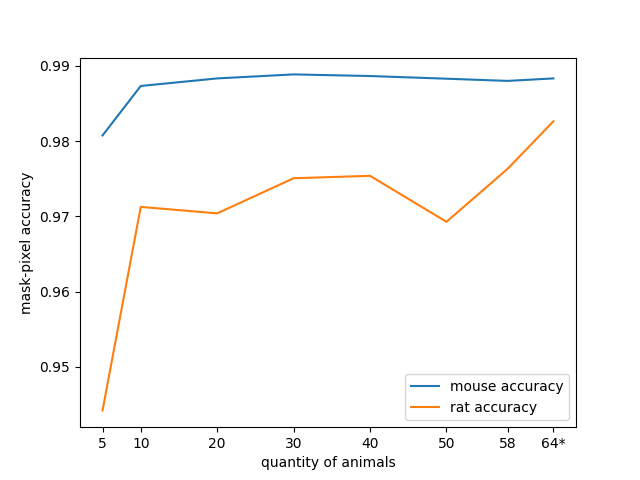
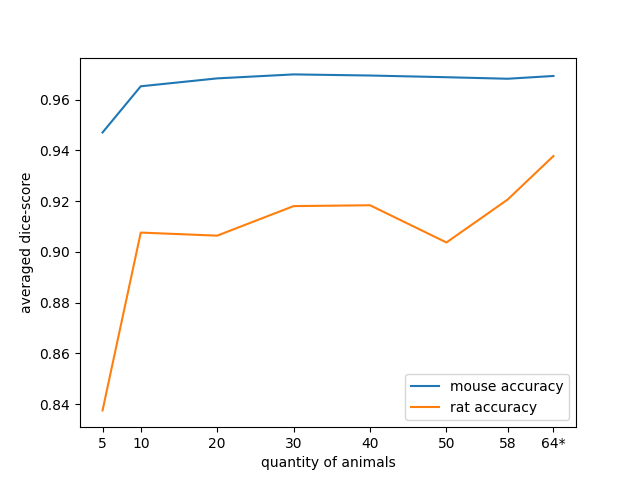
change to dice-score

diff --git a/rm_masking/utils/model_comparison.py b/rm_masking/utils/model_comparison.py
@@ -14,6 +14,9 @@ from rm_masking.utils.data_loading import BasicDataset
 from rm_masking.unet import UNet
 
 
+def dice_score(mask, gt):
+    return np.sum(mask[gt == 1])*2 / (np.sum(mask) + np.sum(gt))
+
 model_path = "../models/"
 
 mouse_test_img_path = "../../data/png/mouse_test/img/"
@@ -59,9 +62,10 @@ for i, model in enumerate(models):
         #plt.imshow(np.abs(c))
         #plt.show()
 
-        sum += ((np.sum(np.abs(a-c)))/np.prod(np.shape(a)))
-    print(1 - (sum/len(dataset_test.ids)))
-    all_sum_mouse.append(1 - (sum/len(dataset_test.ids)))
+        sum += dice_score(gt=c, mask=a) # ((np.sum(np.abs(a-c)))/np.prod(np.shape(a)))
+
+    print((sum/len(dataset_test.ids)))
+    all_sum_mouse.append((sum/len(dataset_test.ids)))
 
 
 
@@ -101,16 +105,16 @@ for i, model in enumerate(models):
         if j == 2:
             rat_residuuen.append(np.abs(a-c))
 
-        sum += ((np.sum(np.abs(a-c)))/np.prod(np.shape(a)))
-    print(1 - (sum/len(dataset_test.ids)))
-    all_sum_rat.append(1 - (sum/len(dataset_test.ids)))
+        sum += dice_score(gt=c, mask=a)  #((np.sum(np.abs(a-c)))/np.prod(np.shape(a)))
+    print((sum/len(dataset_test.ids)))
+    all_sum_rat.append((sum/len(dataset_test.ids)))
 
 plt.close()
 plt.plot([0, .5, 1.5, 2.5, 3.5, 4.5,  5.3, 5.9], np.array(all_sum_mouse), label="mouse accuracy")
 plt.plot([0, .5, 1.5, 2.5, 3.5, 4.5,  5.3, 5.9], np.array(all_sum_rat), label="rat accuracy")
 #plt.xticks(range(len(amount)), amount)
 plt.xticks([0, .5, 1.5, 2.5, 3.5, 4.5, 5.3, 5.9], amount)
-plt.ylabel("mask-pixel accuracy")
+plt.ylabel("averaged dice-score")
 plt.xlabel("quantity of animals")
 plt.legend()
 

diff --git a/README.md b/README.md
@@ -28,15 +28,17 @@ In addition, we tested how many mice are needed for the segmentation process.
 It is also interesting to observe how well the algorithm can be transferred to the rat. 
 In one case only mice are used for learning, in the other case some rats are additionally involved for learning.
 
-<img src="./demo/pixel_accuracy.png"/>
-
+<p align="center">
+    <img src="./demo/pixel_accuracy.png"/>
+</p>
 It turns out that in the environment we have chosen, 
 a number of 30 mice is sufficient. Beyond that, 
 we cannot see any improvements. However, it is clear 
 to see that training with rat data improves this prediction significantly.
 
-<img src="./demo/missclassification.png"/>
-
+<p align="center">
+    <img src="./demo/missclassification.png"/>
+</p>
 
 ### References
 [1] [O. Ronneberger, P. Fischer, T. Brox: U-Net: Convolutional Networks for Biomedical Image Segmentation. 
